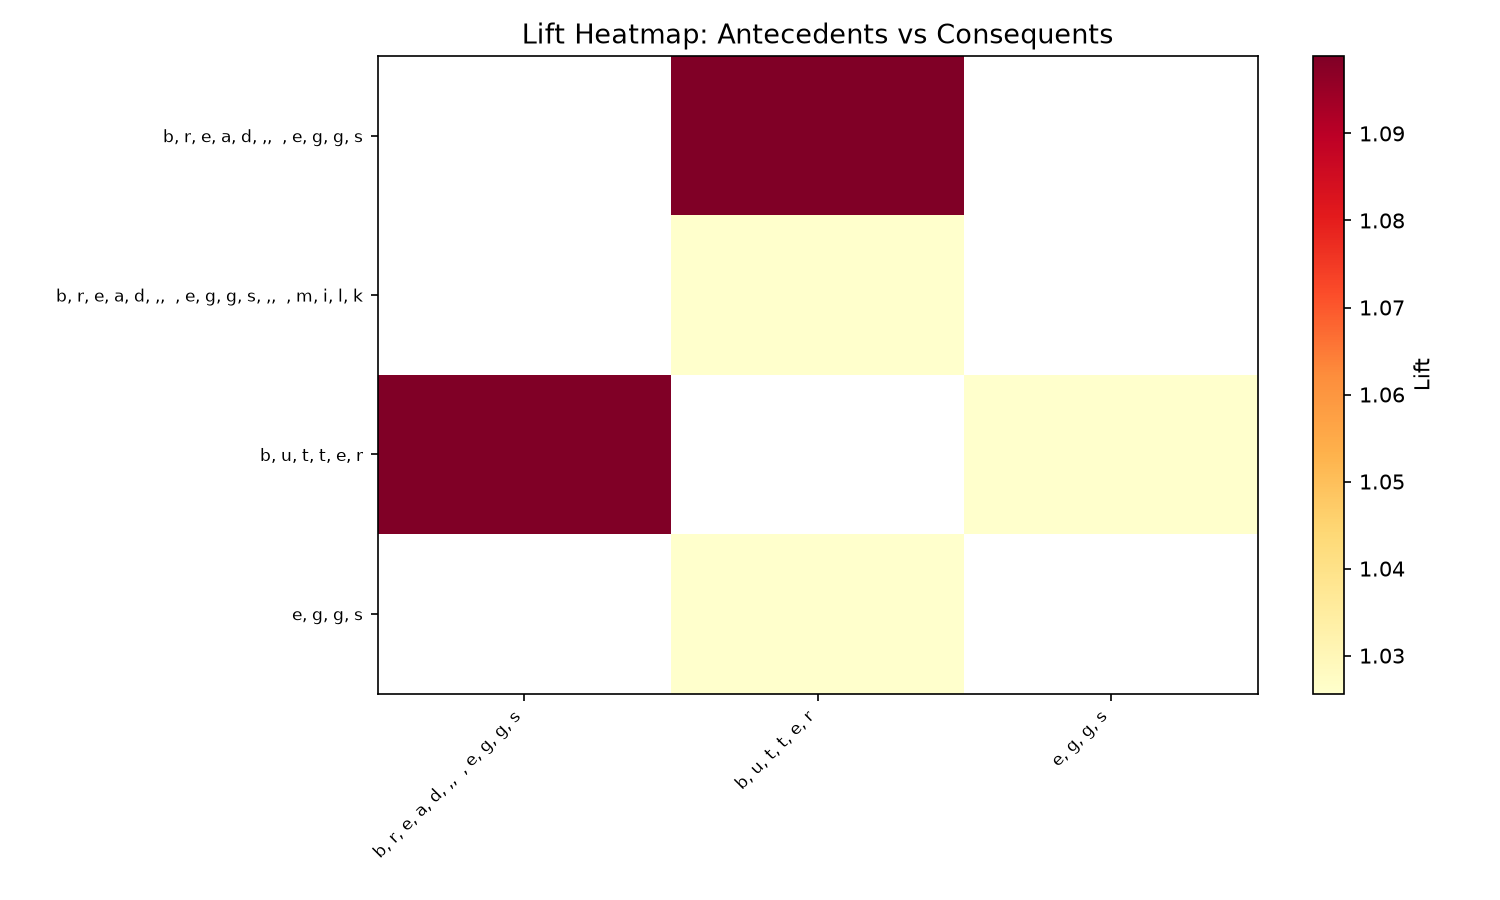
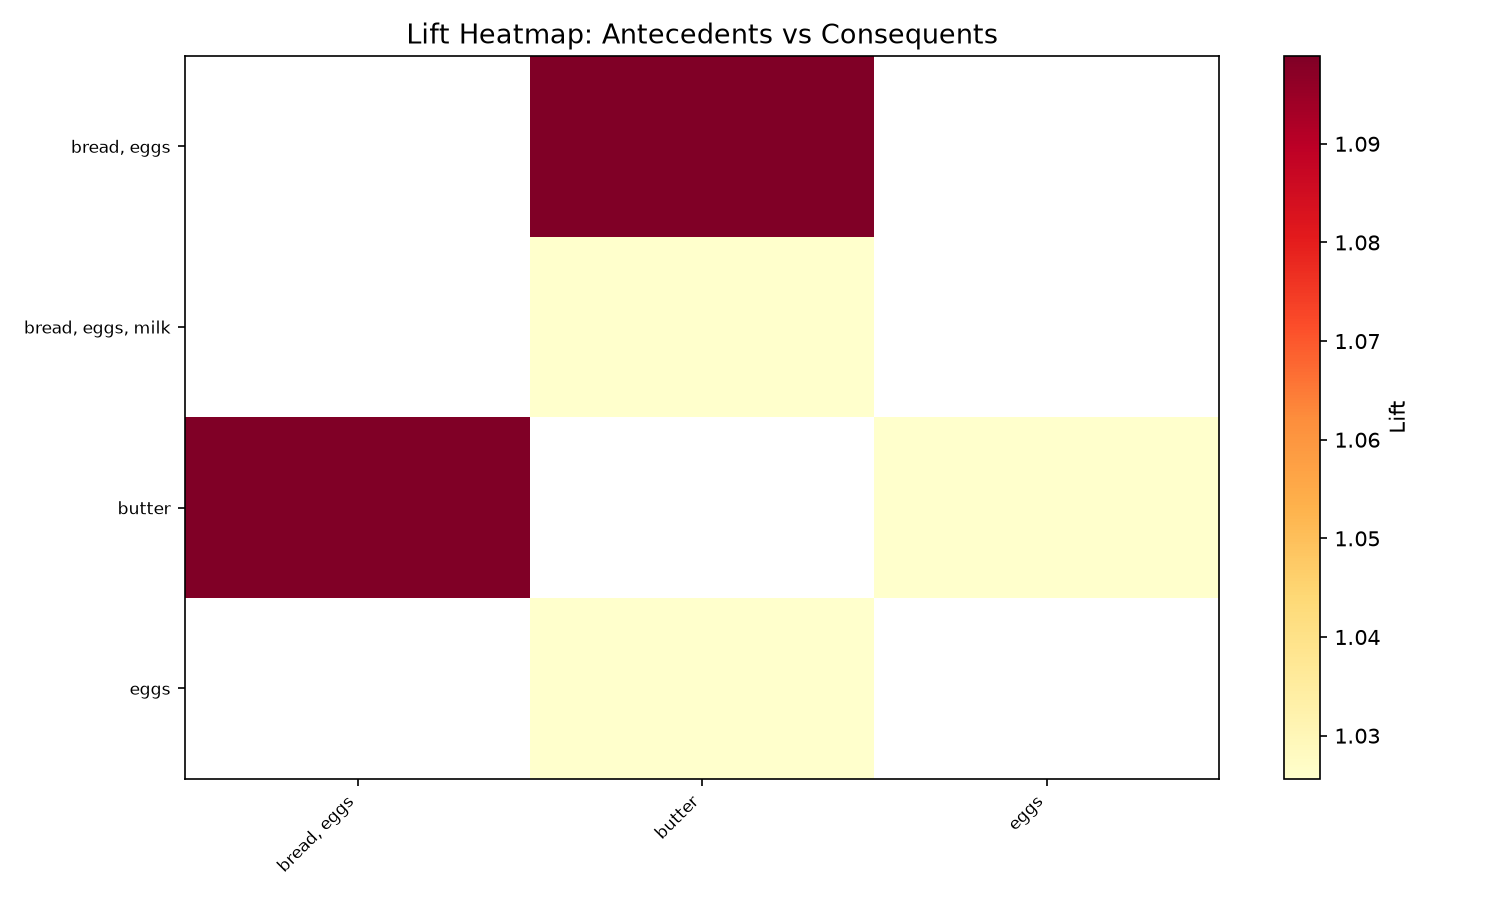
Update README and output files; add Run_Project.bat for easier execution

diff --git a/README.md b/README.md
@@ -15,6 +15,8 @@ Official source: https://www.dunnhumby.com/source-files/ (accessed 2026-11-24)
 
 ## Run
 
+On Windows, double-click `Run_Project.bat`. It creates a private `.venv` folder if needed, checks the required packages, runs the sample analysis, and leaves the window open so any error stays visible. Results and charts are saved in `output/`; they are not opened as separate chart windows.
+
 ```powershell
 python -m pip install -r requirements.txt
 python main.py --data data/groceries.csv --support 0.10 --confidence 0.30 --lift 1.0
